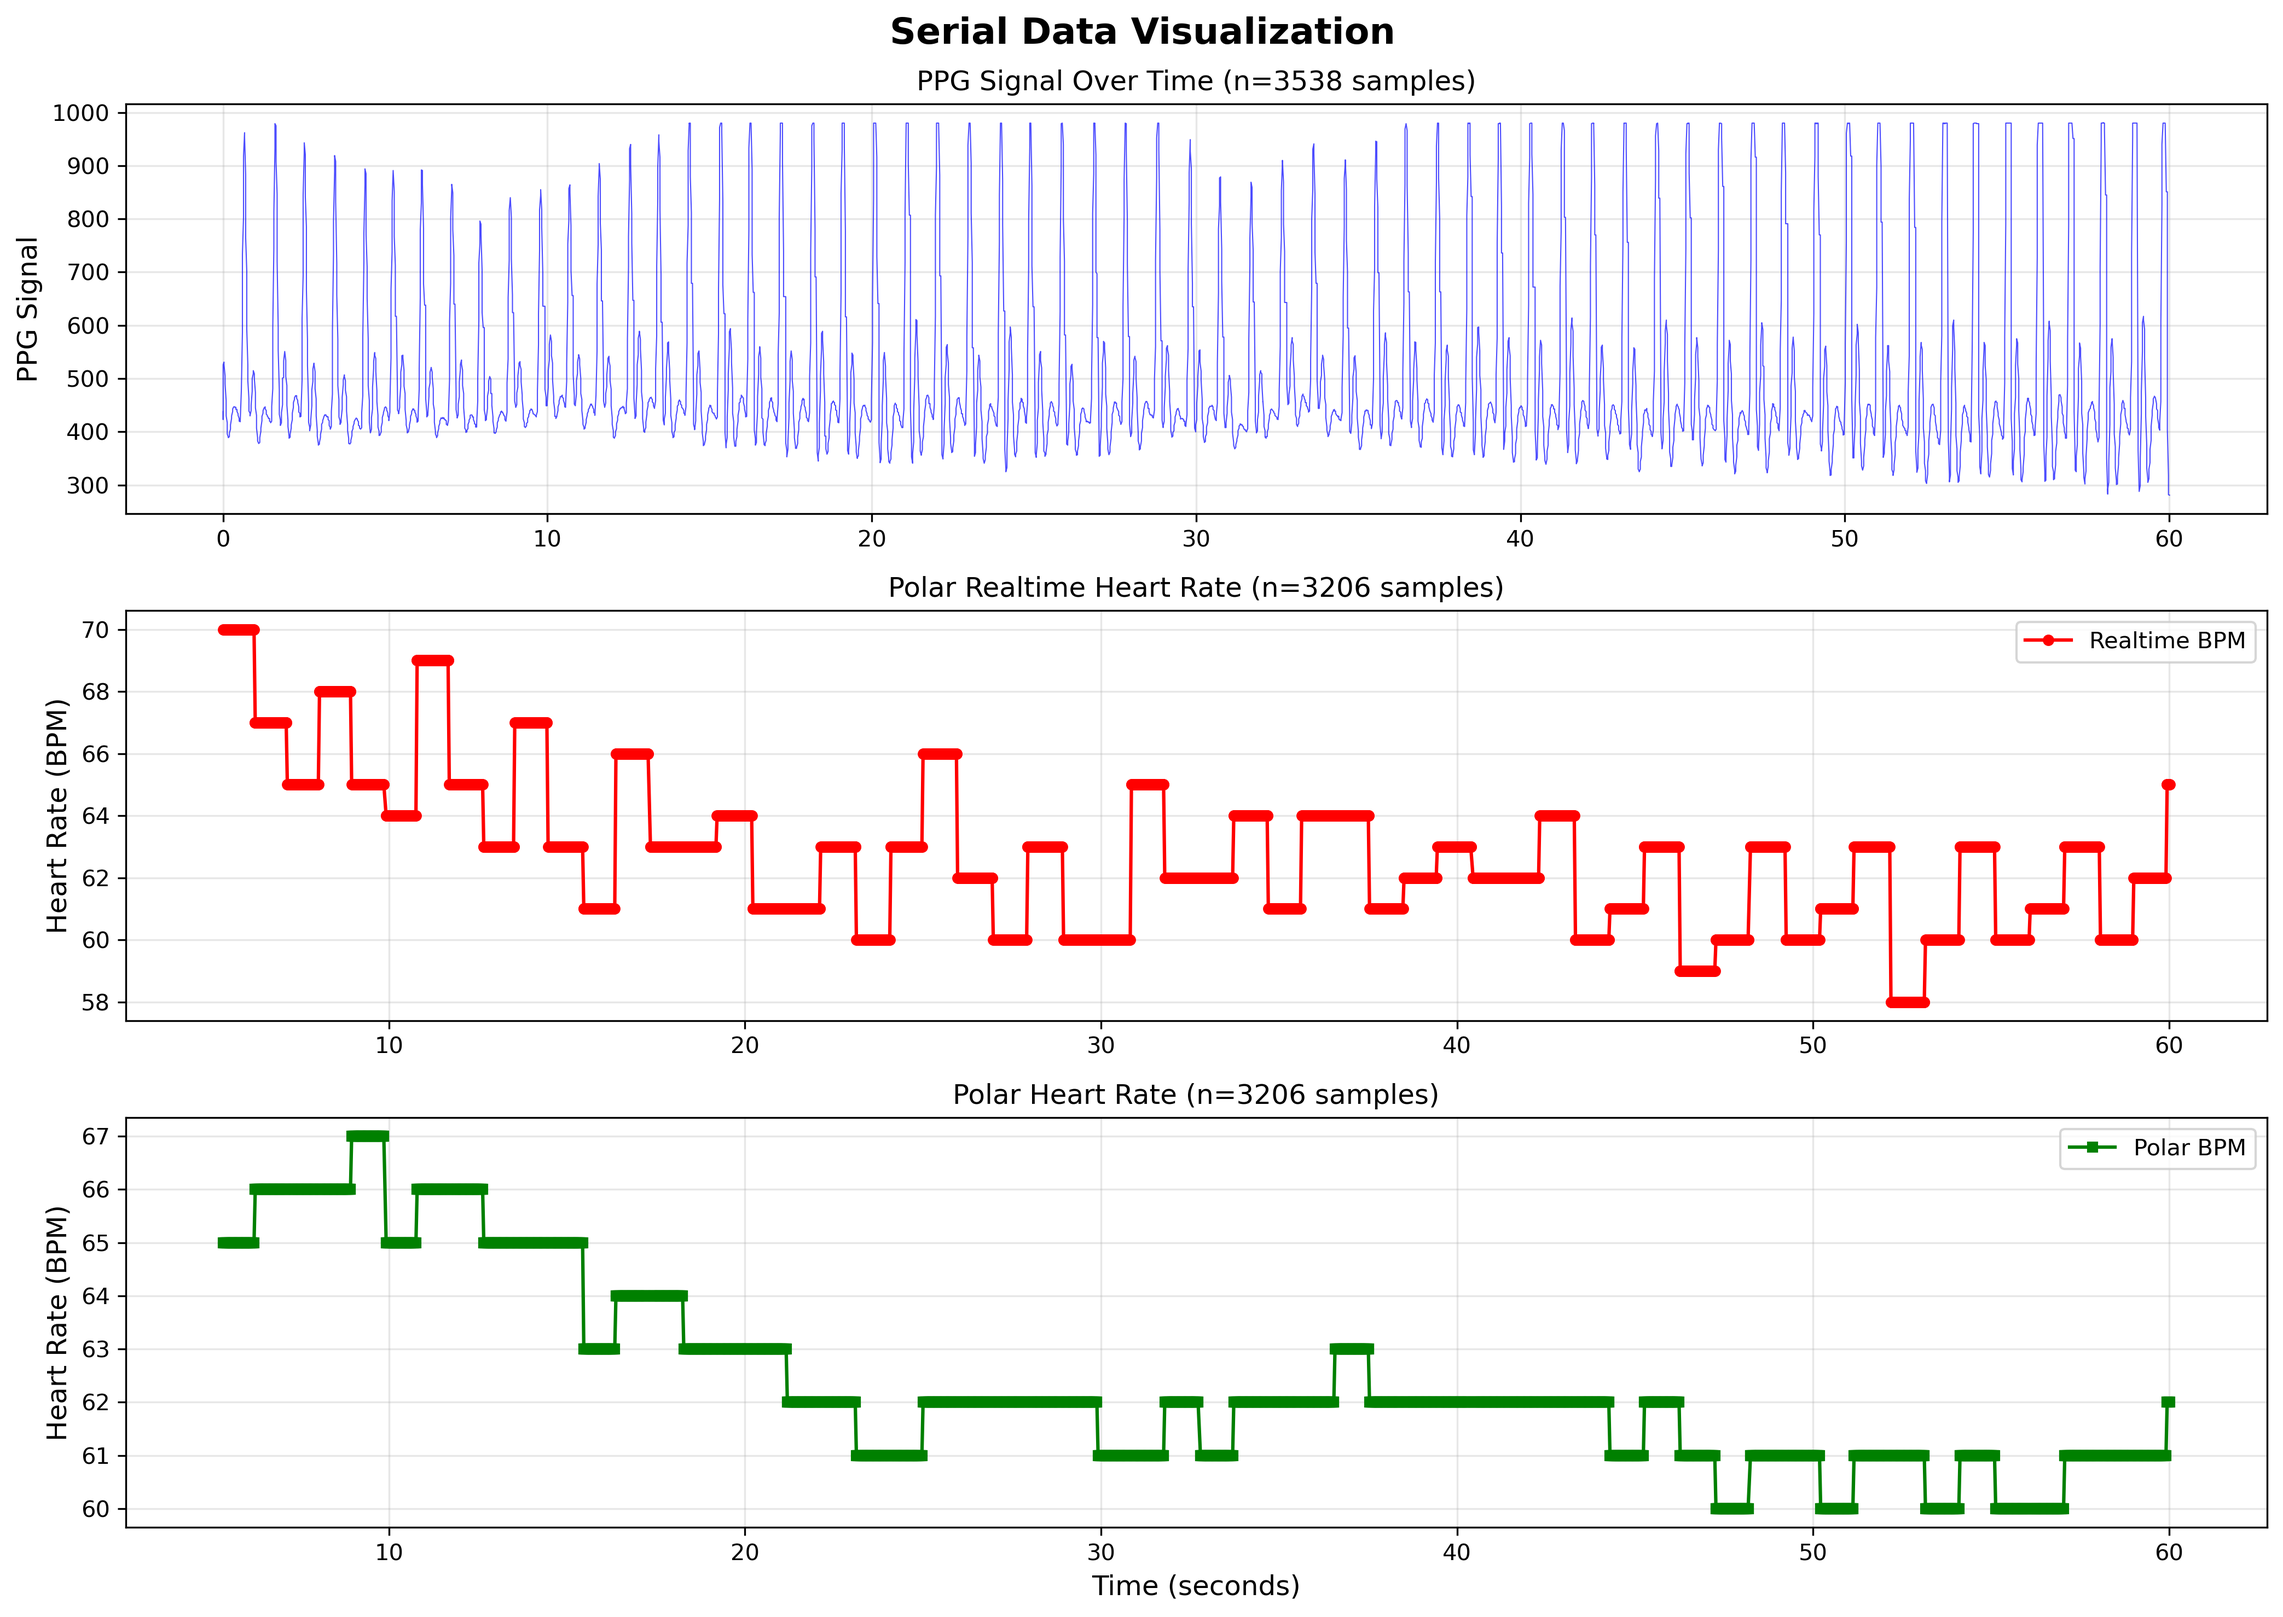
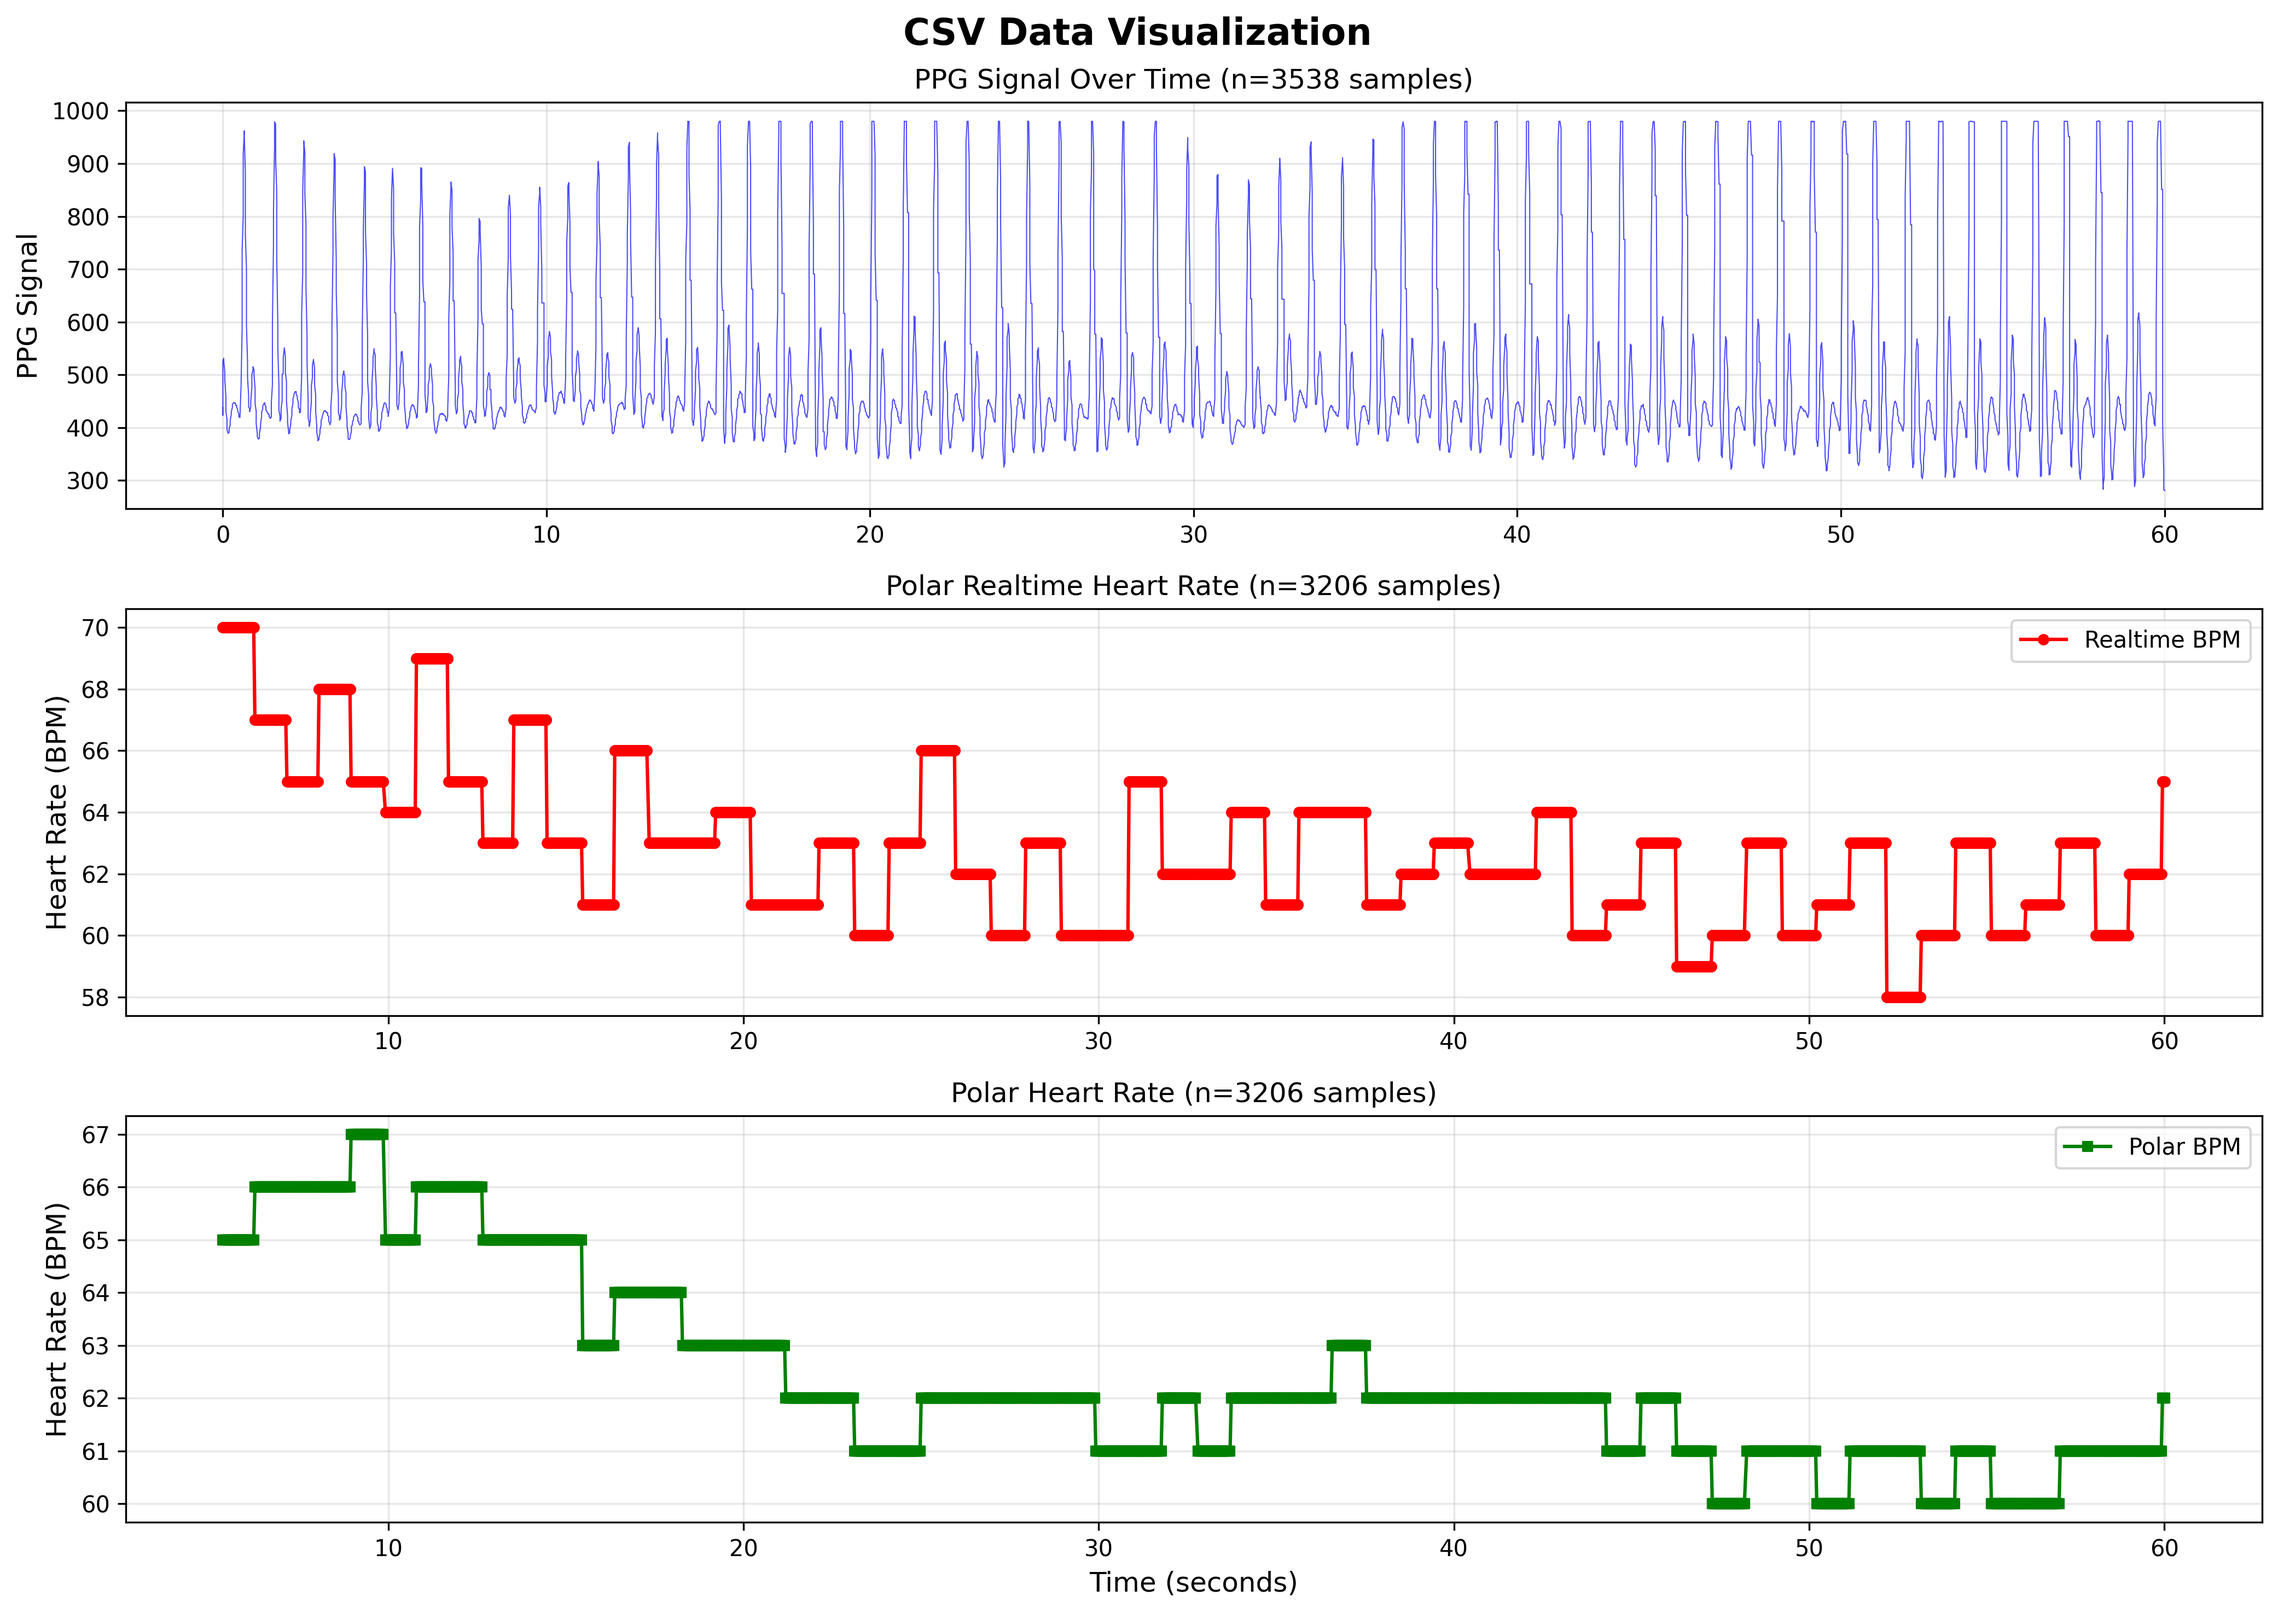
add visualizations

diff --git a/python_code/visualizewithoutcollection.py b/python_code/visualizewithoutcollection.py
@@ -1,0 +1,160 @@
+import pandas as pd
+import matplotlib.pyplot as plt
+
+# Configuration
+INPUT_CSV = 'parsed_data.csv'
+
+def visualize_from_csv(csv_file):
+    """
+    Load CSV data and generate visualizations
+    """
+    print(f"Loading data from {csv_file}...")
+    
+    # Read CSV
+    df = pd.read_csv(csv_file)
+    
+    # Convert SystemTime to datetime
+    df['SystemTime'] = pd.to_datetime(df['SystemTime'])
+    
+    if df.empty:
+        print("No data found in the CSV file!")
+        return
+    
+    print(f"Total records loaded: {len(df)}")
+    
+    # Display first few rows
+    print("\nFirst 10 rows:")
+    print(df.head(10))
+    
+    # Display data summary
+    print("\nData Summary:")
+    print(df.describe())
+    
+    # Count non-null values
+    print("\nData availability:")
+    print(f"PPG readings: {df['PPGSignal'].notna().sum()}")
+    print(f"Polar Realtime BPM readings: {df['PolarRealtimeBPM'].notna().sum()}")
+    print(f"Polar BPM readings: {df['PolarBPM'].notna().sum()}")
+    
+    # Create visualizations
+    print("\nGenerating visualizations...")
+    
+    # Calculate time in seconds from start
+    df['TimeSeconds'] = (df['SystemTime'] - df['SystemTime'].iloc[0]).dt.total_seconds()
+    
+    # Create figure with subplots
+    fig, axes = plt.subplots(3, 1, figsize=(14, 10))
+    fig.suptitle('CSV Data Visualization', fontsize=16, fontweight='bold')
+    
+    # Plot 1: PPG Signal (high frequency data)
+    ax1 = axes[0]
+    ppg_data = df[df['PPGSignal'].notna()]
+    if not ppg_data.empty:
+        ax1.plot(ppg_data['TimeSeconds'], ppg_data['PPGSignal'], 
+                linewidth=0.5, color='blue', alpha=0.7)
+        ax1.set_ylabel('PPG Signal', fontsize=12)
+        ax1.set_title(f'PPG Signal Over Time (n={len(ppg_data)} samples)', fontsize=12)
+        ax1.grid(True, alpha=0.3)
+    else:
+        ax1.text(0.5, 0.5, 'No PPG data', ha='center', va='center', transform=ax1.transAxes)
+    
+    # Plot 2: Polar Realtime BPM
+    ax2 = axes[1]
+    polar_rt_data = df[df['PolarRealtimeBPM'].notna()]
+    if not polar_rt_data.empty:
+        ax2.plot(polar_rt_data['TimeSeconds'], polar_rt_data['PolarRealtimeBPM'], 
+                marker='o', linestyle='-', linewidth=1.5, markersize=4, 
+                color='red', label='Realtime BPM')
+        ax2.set_ylabel('Heart Rate (BPM)', fontsize=12)
+        ax2.set_title(f'Polar Realtime Heart Rate (n={len(polar_rt_data)} samples)', fontsize=12)
+        ax2.legend(loc='upper right')
+        ax2.grid(True, alpha=0.3)
+    else:
+        ax2.text(0.5, 0.5, 'No Polar Realtime BPM data', ha='center', va='center', transform=ax2.transAxes)
+    
+    # Plot 3: Polar BPM
+    ax3 = axes[2]
+    polar_bpm_data = df[df['PolarBPM'].notna()]
+    if not polar_bpm_data.empty:
+        ax3.plot(polar_bpm_data['TimeSeconds'], polar_bpm_data['PolarBPM'], 
+                marker='s', linestyle='-', linewidth=1.5, markersize=4, 
+                color='green', label='Polar BPM')
+        ax3.set_ylabel('Heart Rate (BPM)', fontsize=12)
+        ax3.set_xlabel('Time (seconds)', fontsize=12)
+        ax3.set_title(f'Polar Heart Rate (n={len(polar_bpm_data)} samples)', fontsize=12)
+        ax3.legend(loc='upper right')
+        ax3.grid(True, alpha=0.3)
+    else:
+        ax3.text(0.5, 0.5, 'No Polar BPM data', ha='center', va='center', transform=ax3.transAxes)
+    
+    plt.tight_layout()
+    
+    # Save the figure
+    plt.savefig('data_visualization.png', dpi=300, bbox_inches='tight')
+    print("Visualization saved to data_visualization.png")
+    
+    # Show the plot
+    plt.show()
+    
+    # Create additional combined plot for heart rate comparison
+    if not polar_rt_data.empty and not polar_bpm_data.empty:
+        fig2, ax = plt.subplots(figsize=(14, 6))
+        ax.plot(polar_rt_data['TimeSeconds'], polar_rt_data['PolarRealtimeBPM'], 
+               marker='o', linestyle='-', linewidth=1, markersize=3, 
+               color='red', label='Realtime BPM', alpha=0.7)
+        ax.plot(polar_bpm_data['TimeSeconds'], polar_bpm_data['PolarBPM'], 
+               marker='s', linestyle='-', linewidth=2, markersize=4, 
+               color='green', label='Polar BPM')
+        ax.set_xlabel('Time (seconds)', fontsize=12)
+        ax.set_ylabel('Heart Rate (BPM)', fontsize=12)
+        ax.set_title('Polar Heart Rate Comparison', fontsize=14, fontweight='bold')
+        ax.legend(loc='upper right', fontsize=10)
+        ax.grid(True, alpha=0.3)
+        plt.tight_layout()
+        plt.savefig('heart_rate_comparison.png', dpi=300, bbox_inches='tight')
+        print("Heart rate comparison saved to heart_rate_comparison.png")
+        plt.show()
+    
+    # Create PPG and Heart Rate overlay with dual y-axes
+    if not ppg_data.empty and not polar_rt_data.empty:
+        fig3, ax_ppg = plt.subplots(figsize=(14, 6))
+        
+        # Plot PPG on primary y-axis
+        color_ppg = 'tab:blue'
+        ax_ppg.set_xlabel('Time (seconds)', fontsize=12)
+        ax_ppg.set_ylabel('PPG Signal', color=color_ppg, fontsize=12)
+        ax_ppg.plot(ppg_data['TimeSeconds'], ppg_data['PPGSignal'], 
+                   linewidth=0.5, color=color_ppg, alpha=0.6, label='PPG Signal')
+        ax_ppg.tick_params(axis='y', labelcolor=color_ppg)
+        ax_ppg.grid(True, alpha=0.3)
+        
+        # Create secondary y-axis for Heart Rate
+        ax_hr = ax_ppg.twinx()
+        color_hr = 'tab:red'
+        ax_hr.set_ylabel('Heart Rate (BPM)', color=color_hr, fontsize=12)
+        ax_hr.plot(polar_rt_data['TimeSeconds'], polar_rt_data['PolarRealtimeBPM'], 
+                  marker='o', linestyle='-', linewidth=2, markersize=4, 
+                  color=color_hr, label='Heart Rate (BPM)', alpha=0.8)
+        ax_hr.tick_params(axis='y', labelcolor=color_hr)
+        
+        # Title
+        ax_ppg.set_title('PPG Signal and Heart Rate Overlay (Dual Axes)', 
+                        fontsize=14, fontweight='bold', pad=20)
+        
+        # Add legends
+        lines1, labels1 = ax_ppg.get_legend_handles_labels()
+        lines2, labels2 = ax_hr.get_legend_handles_labels()
+        ax_ppg.legend(lines1 + lines2, labels1 + labels2, loc='upper left', fontsize=10)
+        
+        plt.tight_layout()
+        plt.savefig('ppg_hr_overlay.png', dpi=300, bbox_inches='tight')
+        print("PPG and Heart Rate overlay saved to ppg_hr_overlay.png")
+        plt.show()
+
+if __name__ == "__main__":
+    visualize_from_csv(INPUT_CSV)
+    
+    print("\n" + "="*50)
+    print("Visualization complete!")
+    print("Plots: data_visualization.png, heart_rate_comparison.png, ppg_hr_overlay.png")
+    print("="*50)
